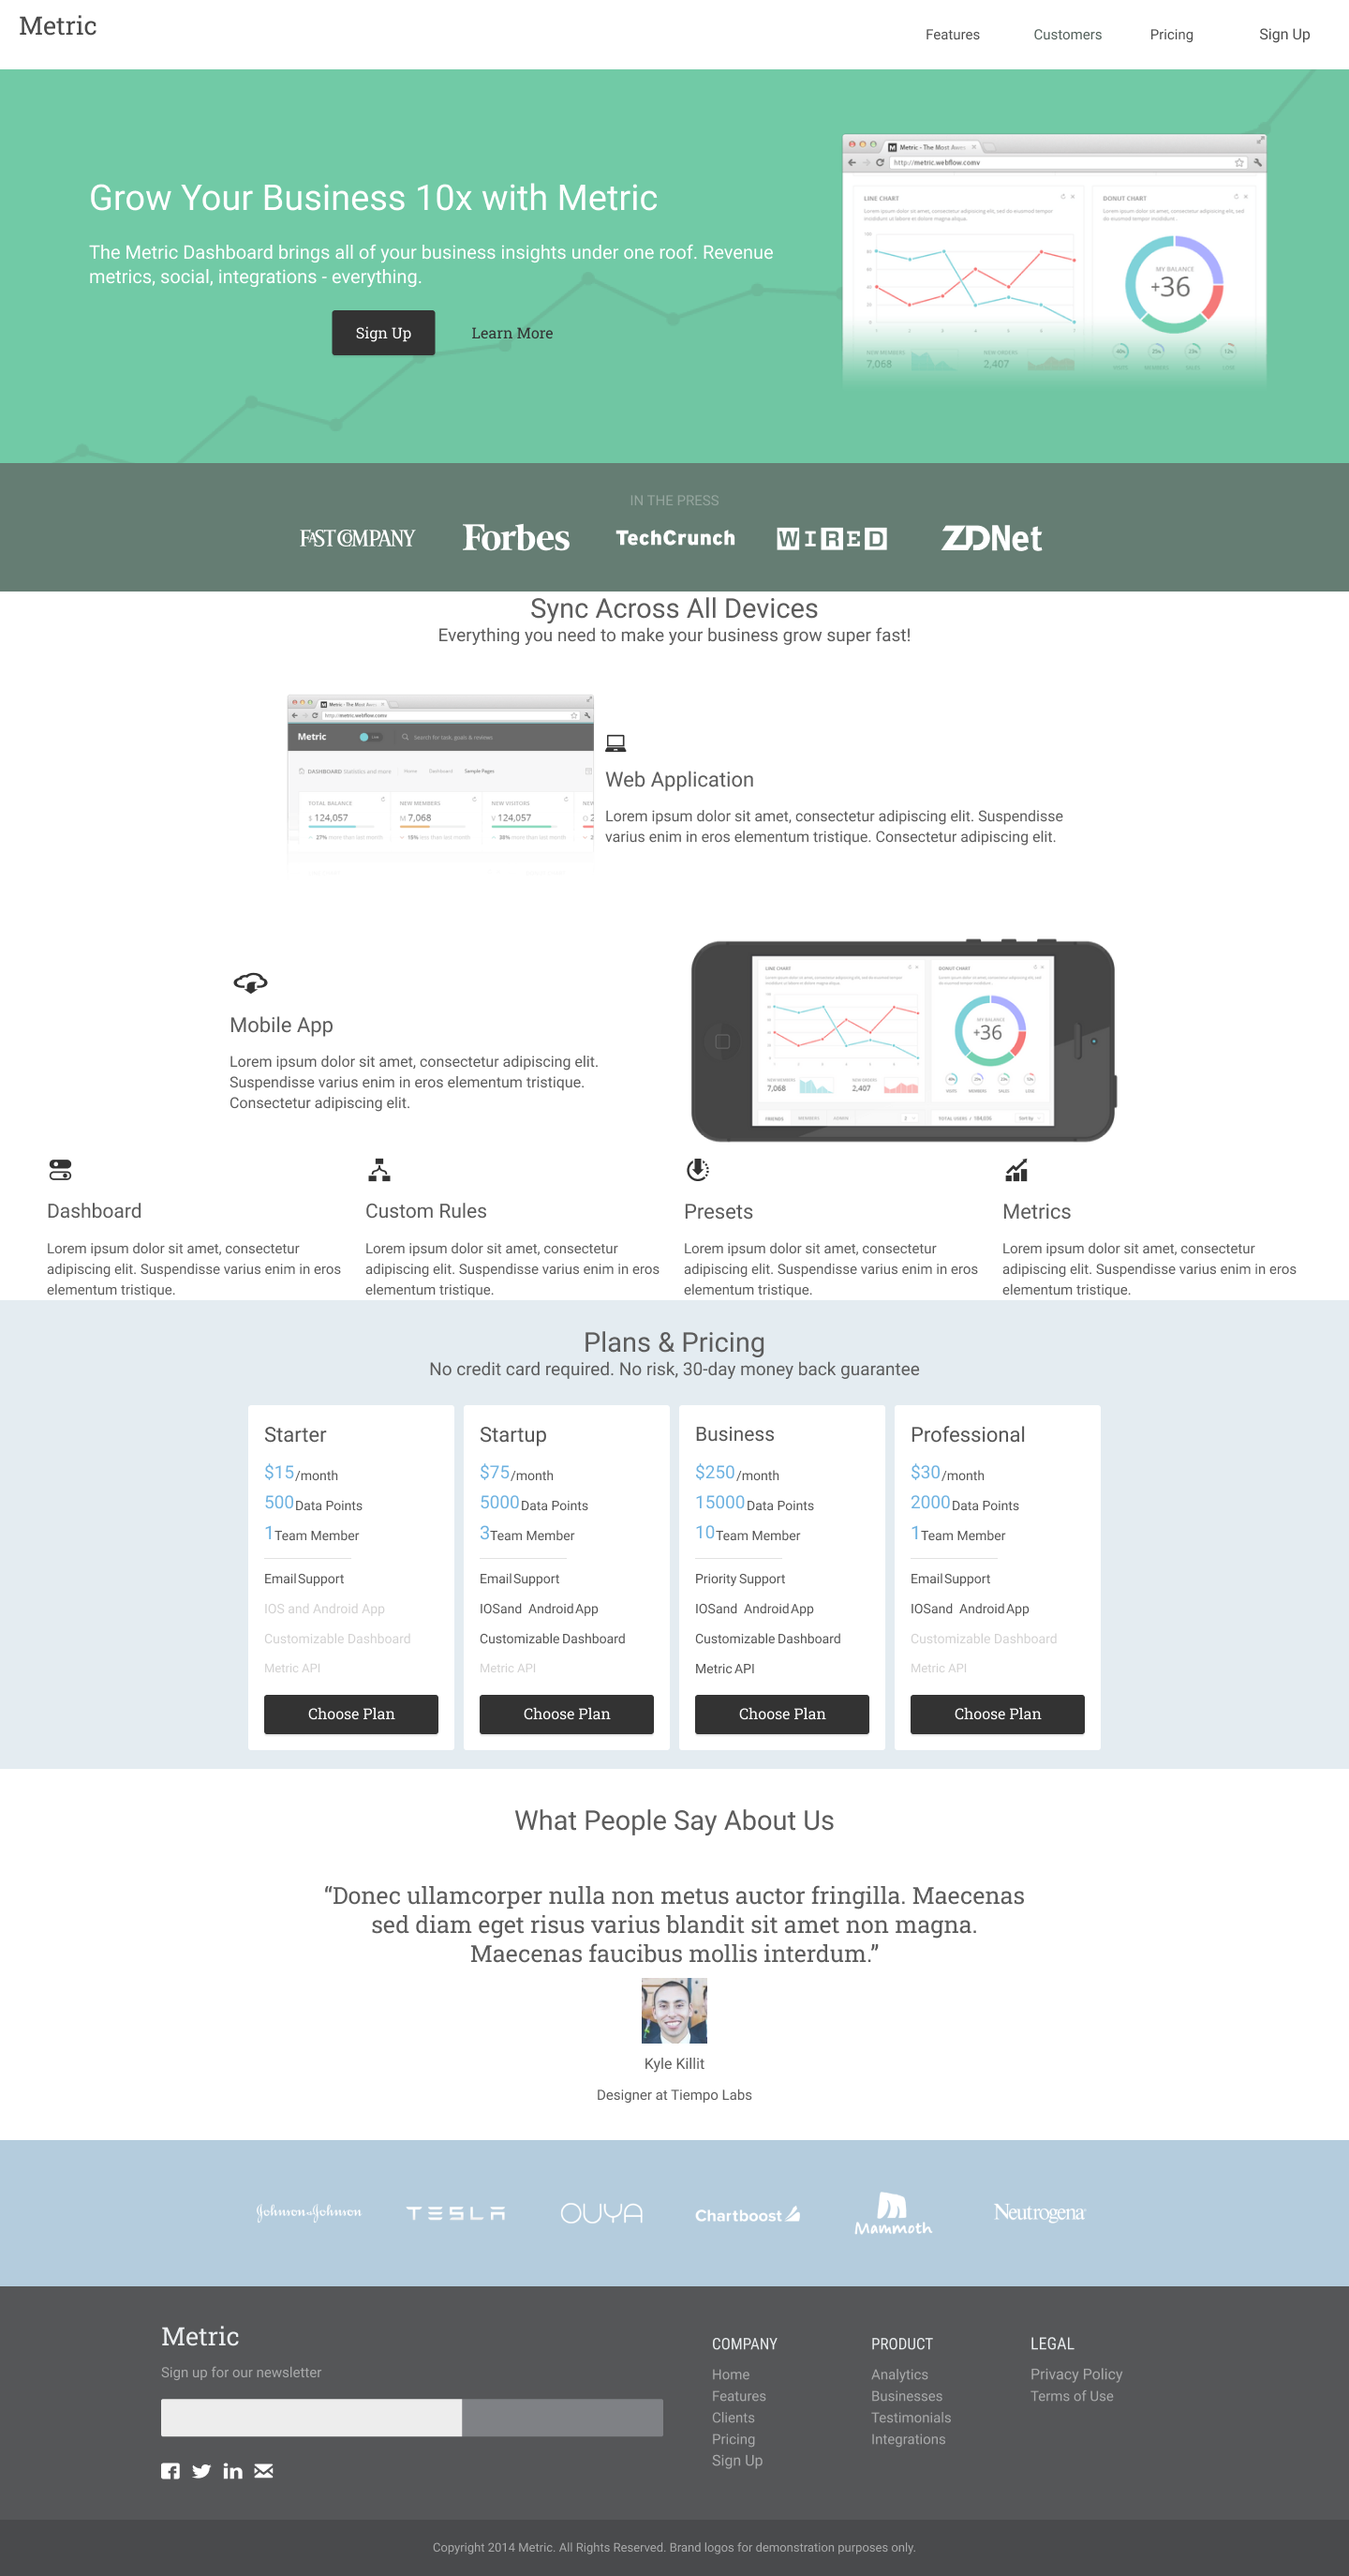
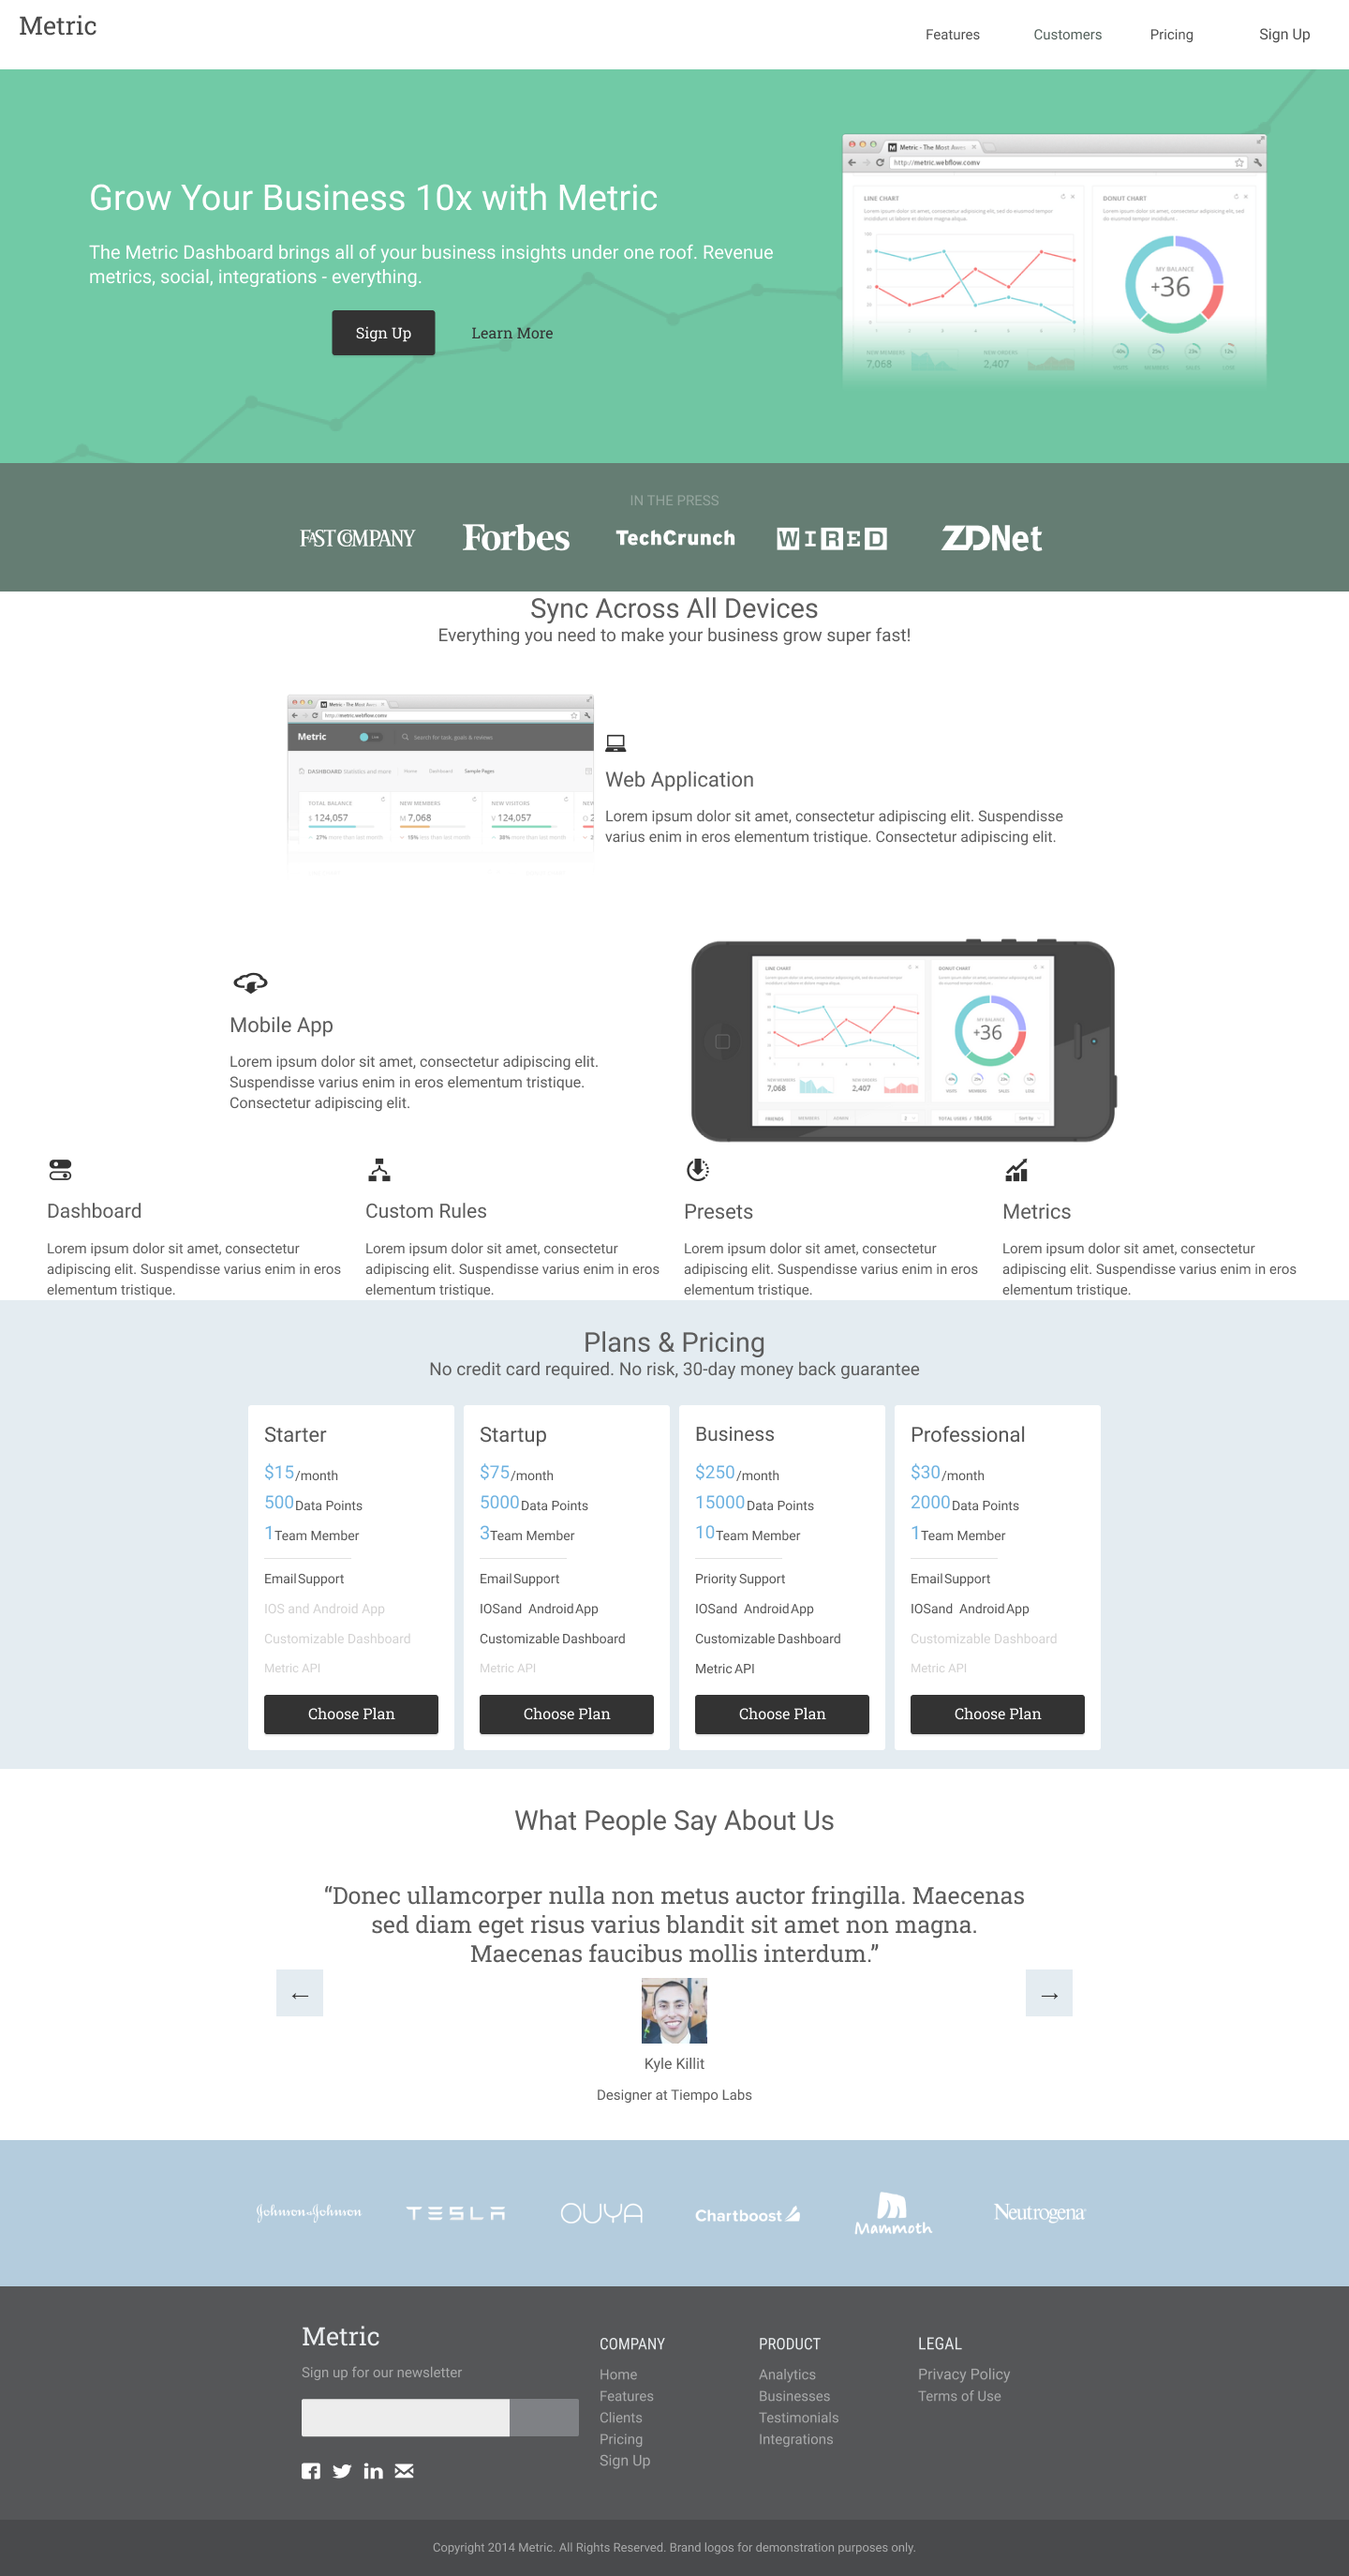
feat: finaly (layout matches the website)

diff --git a/css/styles_elements.css b/css/styles_elements.css
@@ -132,7 +132,7 @@ h1,h2,h3,h4,p{
     color: #939596;
     text-align: center;
     font-family: Roboto;
-    font-size: 13px;
+    font-size: 14px;
     font-style: normal;
     font-weight: 400;
     line-height: 22px;
@@ -158,13 +158,15 @@ h1,h2,h3,h4,p{
 .footer-left-section {
     border-radius: 2px 0px 0px 2px;
     background: #E8E8E8;
-    width: 320px;
+    max-width: 320px;
+    width: 75%;
     height: 40px;   
 }
 .footer-right-section {
     border-radius: 0px 2px 2px 0px;
     background: #5F6166;
-    width: 215px;
+    max-width: 215px;
+    width: 25%;
     height: 40px;
 }
 .main-footer-sign-up h3{
@@ -271,7 +273,7 @@ line-height: 22px;
     font-size: 31px;
     font-style: normal;
     font-weight: 400;
-    line-height: 50px;
+    line-height: 36px;
 }
 .plans-and-pricing-header p {
     color: #333;
@@ -304,7 +306,7 @@ line-height: 30px;
 }
 #id-what-say {
     color: #333;
-
+    letter-spacing: 1px;
     text-align: center;
     font-family: "Roboto Slab";
     font-size: 28px;

diff --git a/css/css.css b/css/css.css
@@ -160,6 +160,8 @@ body{
     align-items: center;
     align-self: stretch;
     background: #DDE7ED;
+    padding: 10px 20px;
+
 }
 .box-say {
     display: flex;
@@ -200,7 +202,10 @@ body{
     padding: 0;
     display: flex;
     gap: 10px;
-    padding:    42px 160px;;
+    padding:    42px 160px;
+    display: flex;
+    justify-content: center;
+    align-items:center;
 }
 
 .end-footer-text {
@@ -235,6 +240,7 @@ body{
 }
 .footer-section-box {
     display: flex;
+    width: 100%;
     padding: 0.25px 0px 9.75px 0px;
 }
 .mobile-app-property-icons-section {
@@ -271,7 +277,7 @@ align-self: stretch;
 }
 .main-footer-sign-up {
     display: flex;
-min-width: 320px;
+min-width: 296px;
 padding: 0px 12px;
 flex-direction: column;
 justify-content: center;
@@ -284,7 +290,6 @@ gap: 17px;
 }
 .links-in-footer {
     display: flex;
-min-width: 480px;
 justify-content: center;
 align-items: flex-start;
 align-content: flex-start;

diff --git a/js/slider-partners.js b/js/slider-partners.js
@@ -21,7 +21,7 @@ function swapNextIcon() {
     if (indexImgIconc >= arrImgPartners.length) {
         indexImgIconc = 0;
     }
-    updateSliderContentFromArr();
+    updateSliderContentFromArrForIcons();
   }
   
   function swapPrevIcon() {
@@ -30,10 +30,10 @@ function swapNextIcon() {
     if (indexImgIconc < 0) {
         indexImgIconc = arrImgPartners.length - 1;
     }
-    updateSliderContentFromArr();
+    updateSliderContentFromArrForIcons();
   }
   
-  function updateSliderContentFromArr() {
+  function updateSliderContentFromArrForIcons() {
     console.log(indexImgIconc);
     let img1 = document.querySelector('#img1-partners');
     let img2 = document.querySelector('#img2-partners');

diff --git a/index.html b/index.html
@@ -196,6 +196,8 @@
             <img id = "img6-partners" src="images/footer-icons/IMAGE-5.png" alt="NotFound">
             <button class="slider-partners-next">→</button>
         </section>  
+
+
         <section class = "main-footer">
             <div class = "main-footer-sign-up">
                 <h3>Metric</h3>
@@ -237,6 +239,8 @@
 
 
         </section>
+
+        
         <section class = "end-footer-text">
             <p>Copyright 2014 Metric. All Rights Reserved. Brand logos for demonstration purposes only.</p>
         </section>

diff --git a/css/media.css b/css/media.css
@@ -80,3 +80,15 @@
             display: none;
         }
     }
+    @media(max-width:800px){
+        .main-footer {
+            padding: 42px 10px;
+        }
+    }
+
+    @media(max-width:1000px){
+        .main-footer {
+            flex-wrap: wrap;
+
+        }
+    }
